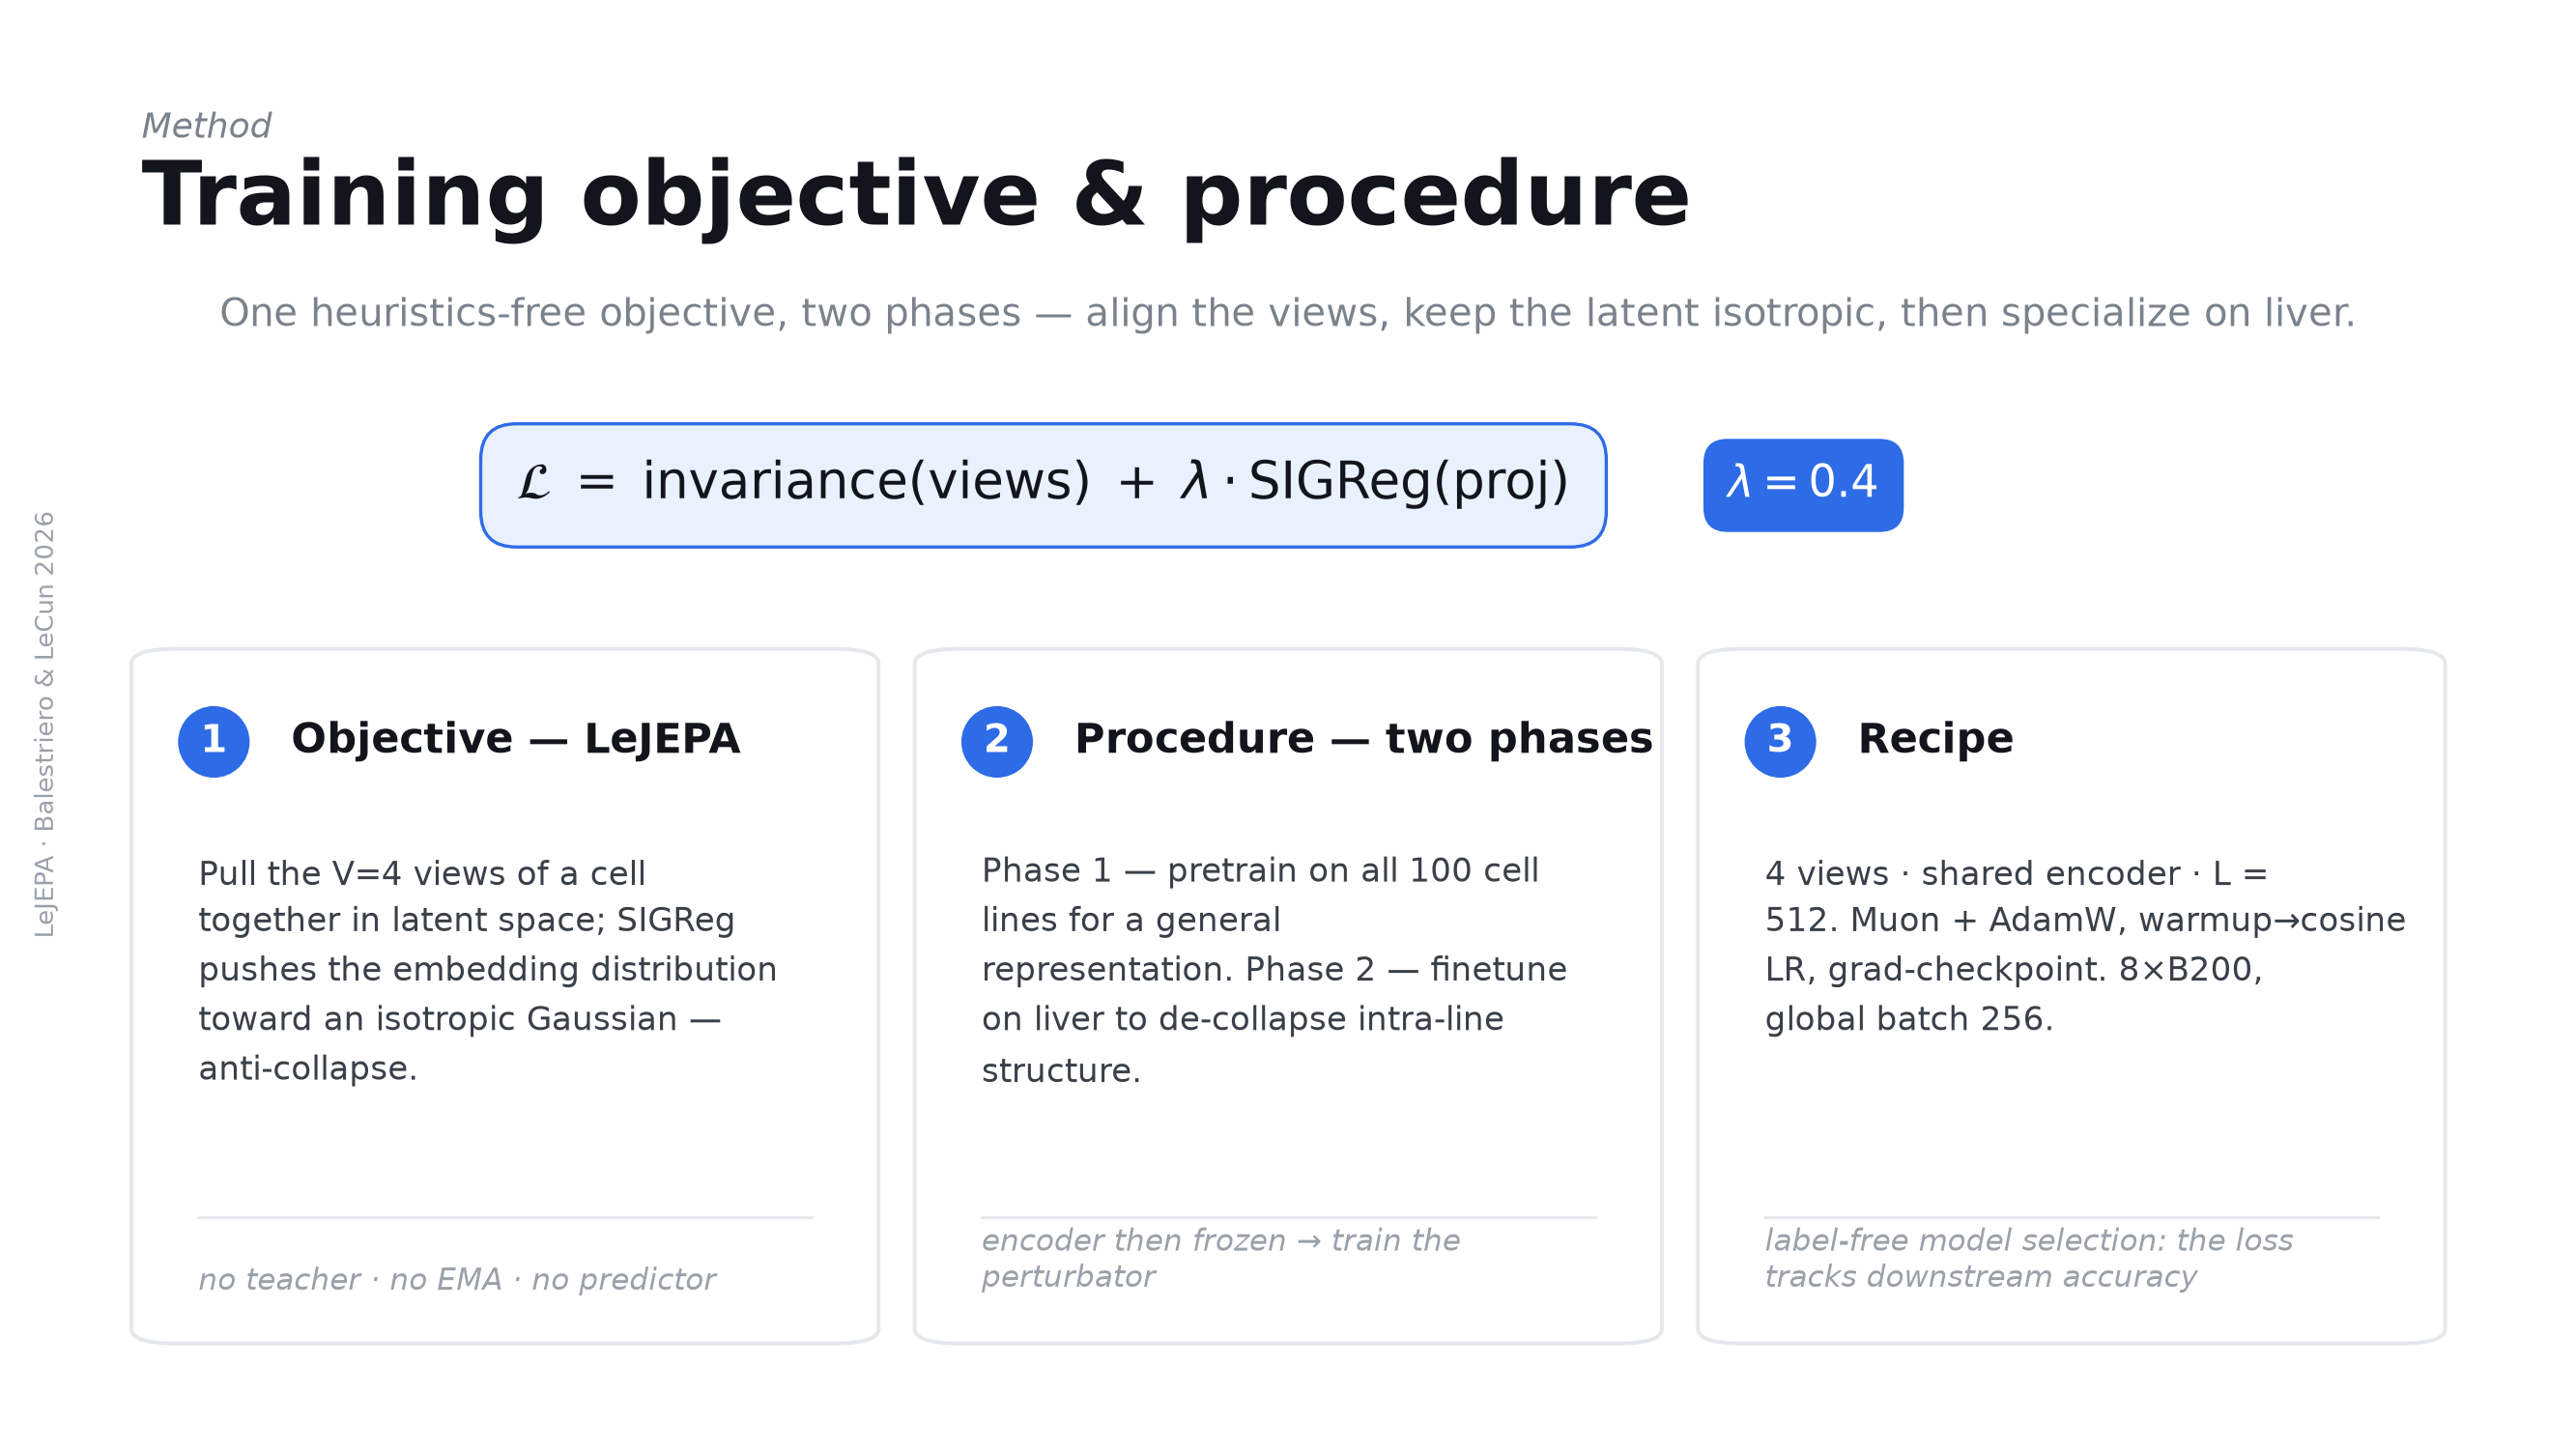
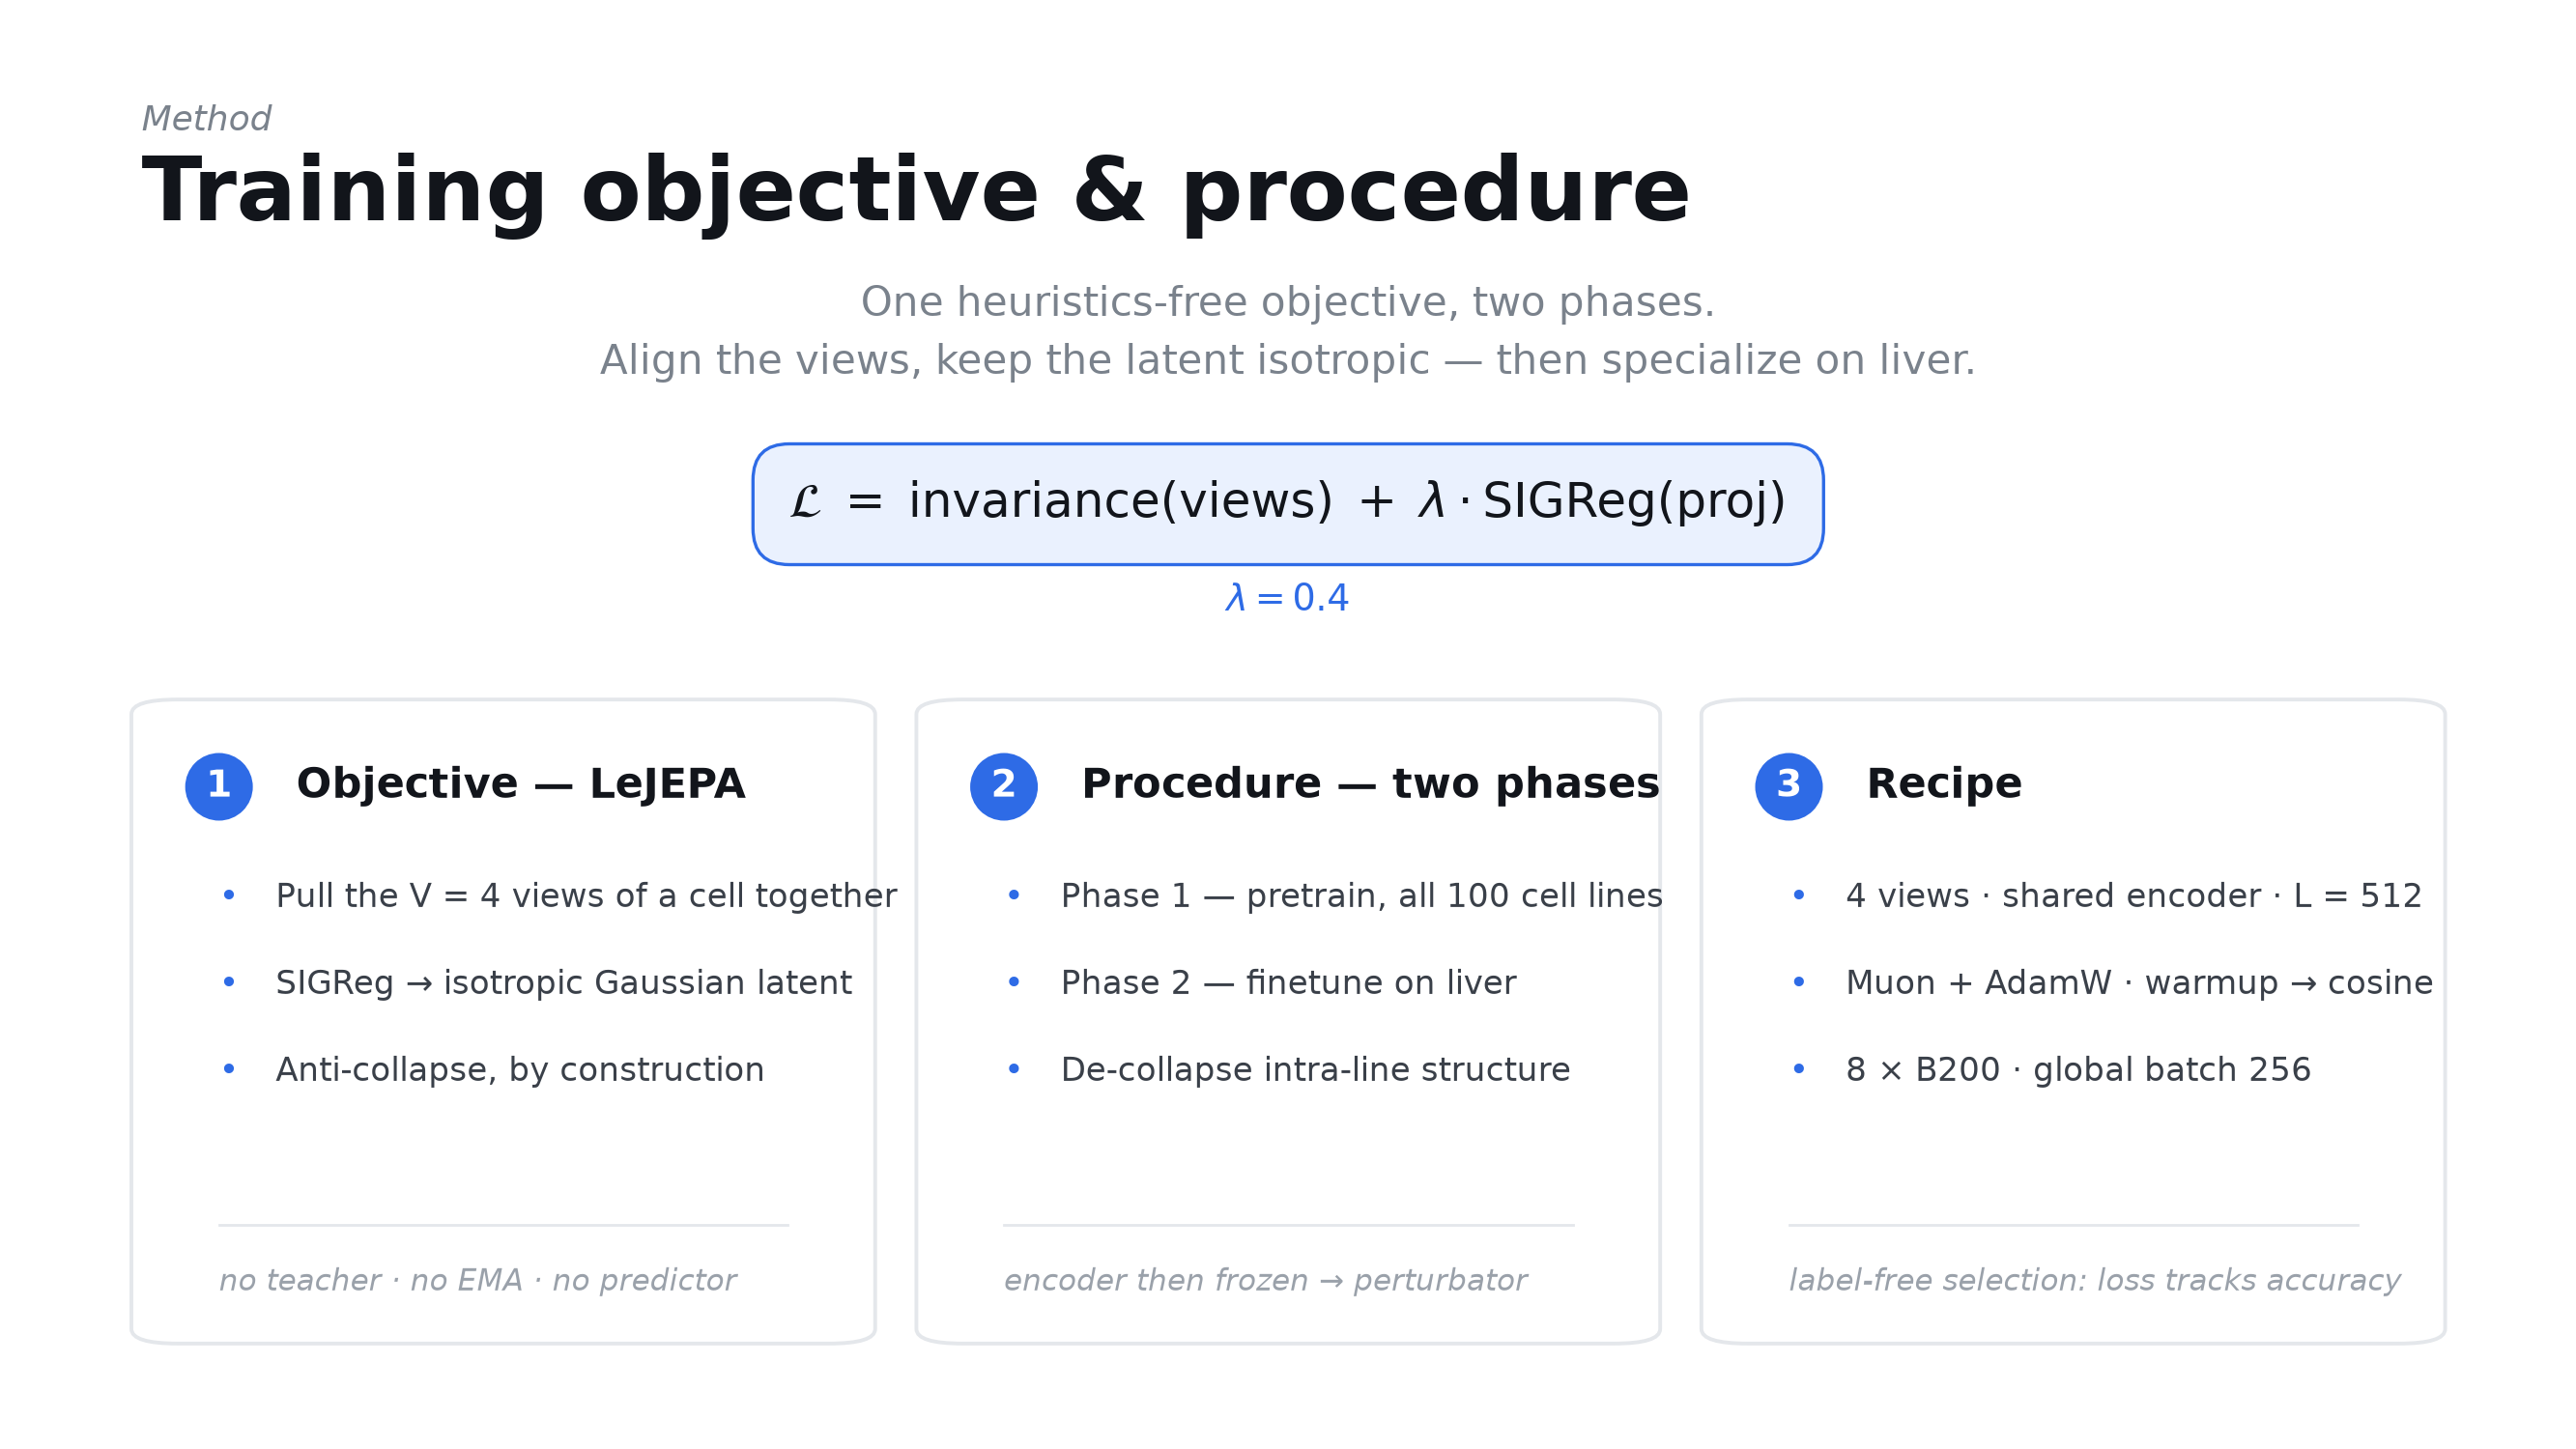
slides: refine training slide — bullet-line cards, centered hero, drop edge caption

diff --git a/slides/make_training_slide.py b/slides/make_training_slide.py
@@ -1,9 +1,8 @@
 """Render the 'Training objective & procedure' slide as a PNG (16:9), in the
-deck's visual vibe: grey section label, bold title, centred subtitle, a loss
-'chip', and three numbered cards. Pure matplotlib so it runs anywhere.
+deck's visual vibe: grey section label, bold title, centred 2-line subtitle, a
+centred loss chip, and three numbered cards whose bodies are clean bullet lines.
+Pure matplotlib so it runs anywhere.
 """
-import textwrap
-
 import matplotlib
 
 matplotlib.use("Agg")
@@ -14,6 +13,7 @@ from matplotlib.patches import FancyBboxPatch
 BLUE = "#2E6BE6"
 BLUE_SOFT = "#EAF1FE"
 INK = "#12151B"
+BODY = "#3A4049"
 GREY = "#7A828C"
 GREY_SOFT = "#9AA1AA"
 EDGE = "#E4E7EB"
@@ -28,71 +28,70 @@ ax.axis("off")
 fig.patch.set_facecolor("white")
 
 # --- header -----------------------------------------------------------------
-ax.text(0.055, 0.905, "Method", color=GREY, fontsize=13, style="italic")
-ax.text(0.055, 0.845, "Training objective & procedure", color=INK,
+ax.text(0.055, 0.910, "Method", color=GREY, fontsize=13, style="italic")
+ax.text(0.055, 0.848, "Training objective & procedure", color=INK,
         fontsize=33, fontweight="bold")
-ax.text(0.5, 0.775,
-        "One heuristics-free objective, two phases — align the views, keep the "
-        "latent isotropic, then specialize on liver.",
-        color=GREY, fontsize=14.5, ha="center")
+ax.text(0.5, 0.782, "One heuristics-free objective, two phases.",
+        color=GREY, fontsize=15, ha="center")
+ax.text(0.5, 0.742,
+        "Align the views, keep the latent isotropic — then specialize on liver.",
+        color=GREY, fontsize=15, ha="center")
 
-# --- loss chip (hero) -------------------------------------------------------
-ax.text(0.405, 0.665,
+# --- loss chip (hero), centred ---------------------------------------------
+ax.text(0.5, 0.652,
         r"$\mathcal{L}\;=\;\mathrm{invariance(views)}\;+\;\lambda\cdot\mathrm{SIGReg(proj)}$",
-        color=INK, fontsize=19, ha="center", va="center",
-        bbox=dict(boxstyle="round,pad=0.7", fc=BLUE_SOFT, ec=BLUE, lw=1.2))
-ax.text(0.70, 0.665, r"$\lambda = 0.4$", color="white", fontsize=16.5,
-        ha="center", va="center", fontweight="bold",
-        bbox=dict(boxstyle="round,pad=0.55", fc=BLUE, ec="none"))
+        color=INK, fontsize=18, ha="center", va="center",
+        bbox=dict(boxstyle="round,pad=0.75", fc=BLUE_SOFT, ec=BLUE, lw=1.2))
+ax.text(0.5, 0.585, r"$\lambda = 0.4$", color=BLUE, fontsize=13.5,
+        ha="center", va="center", fontweight="bold")
 
 # --- three cards ------------------------------------------------------------
 cards = [
     ("1", "Objective — LeJEPA",
-     "Pull the V=4 views of a cell together in latent space; SIGReg pushes the "
-     "embedding distribution toward an isotropic Gaussian — anti-collapse.",
+     ["Pull the V = 4 views of a cell together",
+      "SIGReg → isotropic Gaussian latent",
+      "Anti-collapse, by construction"],
      "no teacher · no EMA · no predictor"),
     ("2", "Procedure — two phases",
-     "Phase 1 — pretrain on all 100 cell lines for a general representation. "
-     "Phase 2 — finetune on liver to de-collapse intra-line structure.",
-     "encoder then frozen → train the perturbator"),
+     ["Phase 1 — pretrain, all 100 cell lines",
+      "Phase 2 — finetune on liver",
+      "De-collapse intra-line structure"],
+     "encoder then frozen → perturbator"),
     ("3", "Recipe",
-     "4 views · shared encoder · L = 512. Muon + AdamW, warmup→cosine LR, "
-     "grad-checkpoint. 8×B200, global batch 256.",
-     "label-free model selection: the loss tracks downstream accuracy"),
+     ["4 views · shared encoder · L = 512",
+      "Muon + AdamW · warmup → cosine",
+      "8 × B200 · global batch 256"],
+     "label-free selection: loss tracks accuracy"),
 ]
 
-x0, gap = 0.055, 0.022
+x0, gap = 0.055, 0.024
 cw = (1 - 2 * x0 - 2 * gap) / 3
-ybot, ytop = 0.075, 0.55
+ybot, ytop = 0.075, 0.515
 ch = ytop - ybot
 
-for i, (num, head, body, foot) in enumerate(cards):
+for i, (num, head, lines, foot) in enumerate(cards):
     x = x0 + i * (cw + gap)
     ax.add_patch(FancyBboxPatch(
         (x, ybot), cw, ch,
         boxstyle="round,pad=0.004,rounding_size=0.018",
         fc="white", ec=EDGE, lw=1.4, mutation_aspect=0.56))
-    # numbered circle
-    ax.text(x + 0.028, ytop - 0.062, num, color="white", fontsize=14.5,
+    # numbered circle + header on one baseline
+    ax.text(x + 0.030, ytop - 0.058, num, color="white", fontsize=14,
             ha="center", va="center", fontweight="bold",
-            bbox=dict(boxstyle="circle,pad=0.42", fc=BLUE, ec="none"))
-    # header
-    ax.text(x + 0.058, ytop - 0.062, head, color=INK, fontsize=15.5,
+            bbox=dict(boxstyle="circle,pad=0.40", fc=BLUE, ec="none"))
+    ax.text(x + 0.060, ytop - 0.058, head, color=INK, fontsize=15.5,
             ha="left", va="center", fontweight="bold")
-    # body (wrapped)
-    wrapped = textwrap.fill(body, width=34)
-    ax.text(x + 0.022, ytop - 0.135, wrapped, color="#3A4049", fontsize=12.3,
-            ha="left", va="top", linespacing=1.5)
-    # divider + footer
-    ax.plot([x + 0.022, x + cw - 0.022], [ybot + 0.085, ybot + 0.085],
+    # body as evenly-spaced bullet lines
+    by0, pitch = ytop - 0.135, 0.060
+    for j, line in enumerate(lines):
+        ly = by0 - j * pitch
+        ax.text(x + 0.030, ly, "•", color=BLUE, fontsize=12.5, va="center")
+        ax.text(x + 0.052, ly, line, color=BODY, fontsize=12.3, va="center")
+    # divider + italic footer
+    ax.plot([x + 0.030, x + cw - 0.030], [ybot + 0.080, ybot + 0.080],
             color=EDGE, lw=1)
-    ax.text(x + 0.022, ybot + 0.03, textwrap.fill(foot, width=40),
-            color=GREY_SOFT, fontsize=11, style="italic", ha="left", va="bottom")
+    ax.text(x + 0.030, ybot + 0.040, foot, color=GREY_SOFT, fontsize=11,
+            style="italic", ha="left", va="center")
 
-# left-edge micro caption, like the other slides
-ax.text(0.018, 0.5, "LeJEPA · Balestriero & LeCun 2026", color=GREY_SOFT,
-        fontsize=9.5, rotation=90, ha="center", va="center")
-
-fig.savefig("slides/training_objective.png", dpi=200,
-            facecolor="white", bbox_inches=None)
+fig.savefig("slides/training_objective.png", dpi=200, facecolor="white")
 print("saved slides/training_objective.png")